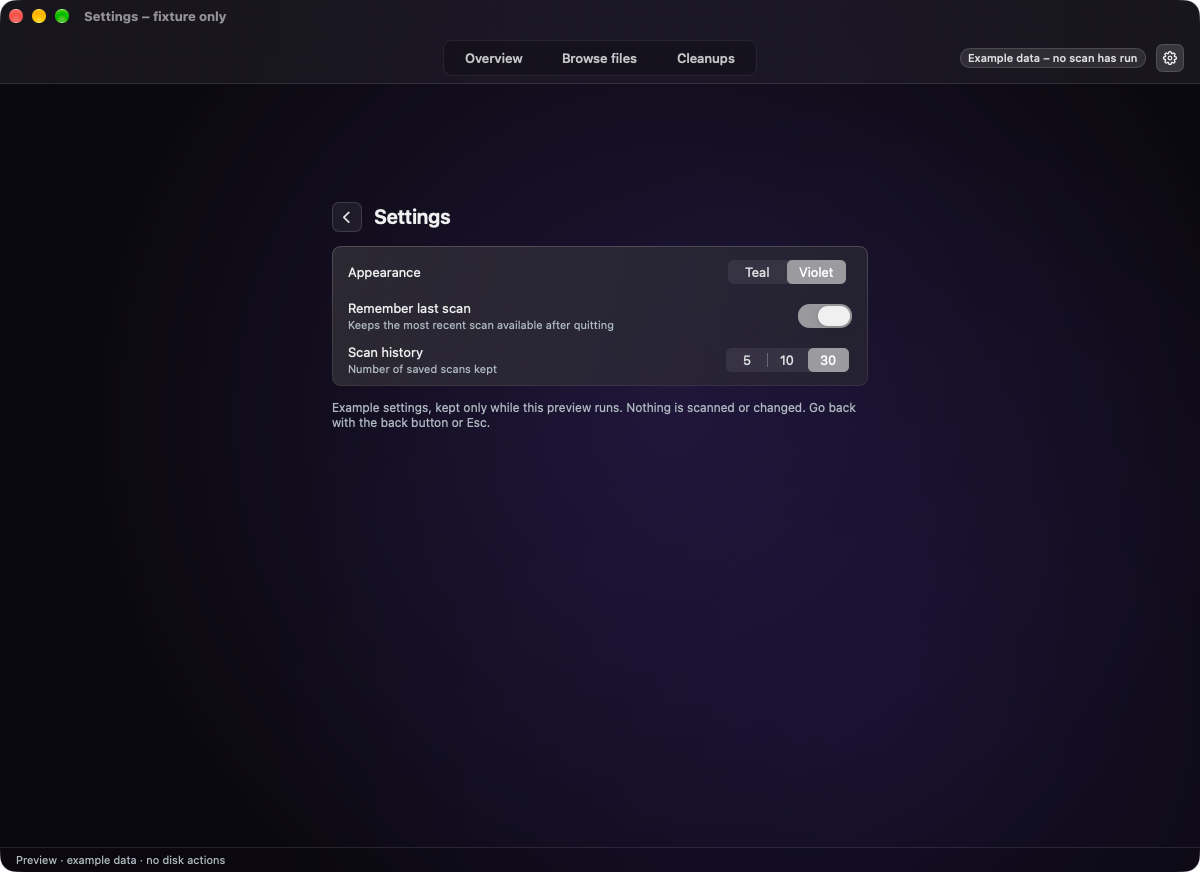
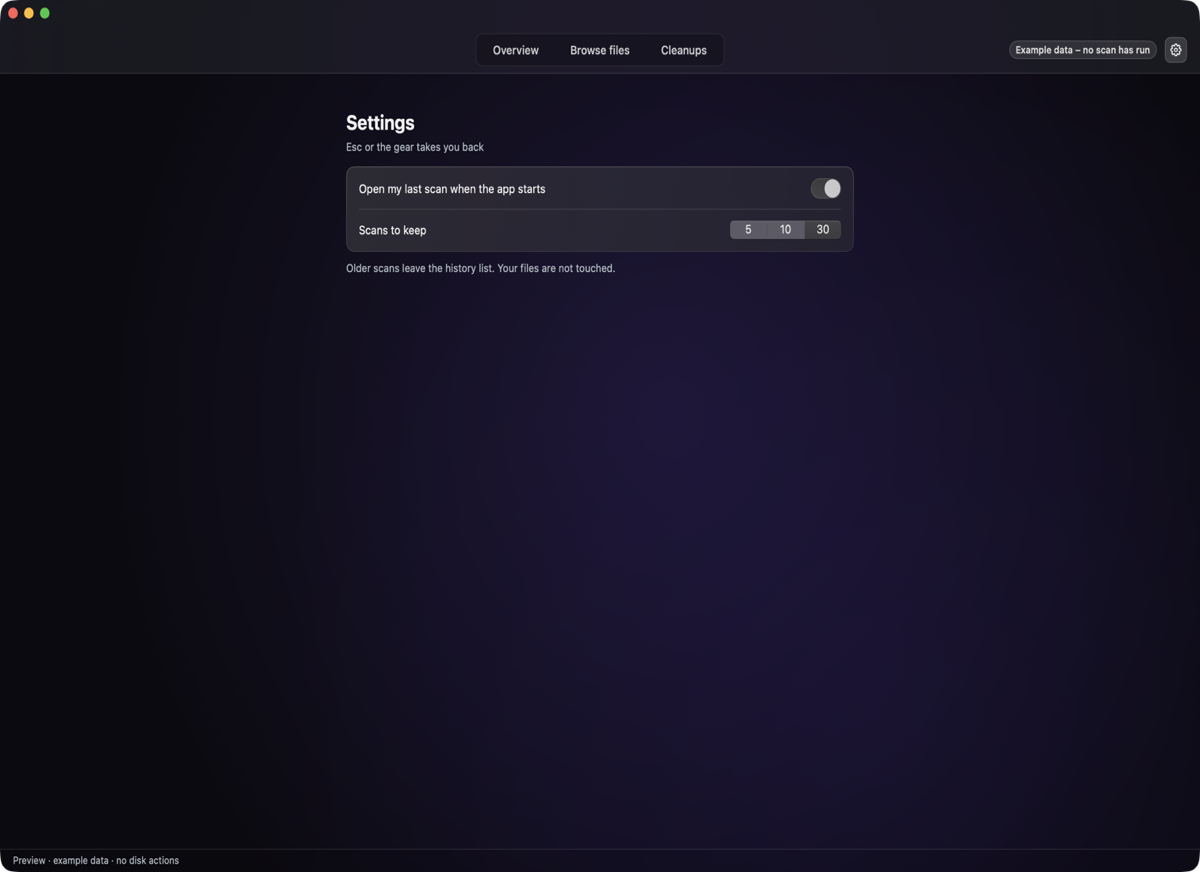
Polish the first-run pages and Settings

diff --git a/Sources/DiskCleanerApp/Views/Components.swift b/Sources/DiskCleanerApp/Views/Components.swift
@@ -191,10 +191,11 @@ struct PanelSurface: View {
 struct GhostStyle: ButtonStyle {
     @Environment(\.isEnabled) private var enabled
     var tint: Color = .white
+    var height: CGFloat = 36
     func makeBody(configuration: Configuration) -> some View {
         configuration.label.font(.system(size: 13, weight: .semibold))
             .foregroundStyle(tint.opacity(enabled ? 0.94 : 0.50))
-            .padding(.horizontal, 16).frame(height: 36)
+            .padding(.horizontal, 16).frame(height: height)
             .background(.white.opacity(configuration.isPressed && enabled ? 0.11 : 0), in: RoundedRectangle(cornerRadius: 7, style: .continuous))
             .animation(configuration.isPressed ? nil : CleanerMotion.release, value: configuration.isPressed)
             .overlay(RoundedRectangle(cornerRadius: 7, style: .continuous).strokeBorder(.white.opacity(enabled ? 0.30 : 0.18)))
@@ -371,3 +372,57 @@ enum FolderChooser {
         }
     }
 }
+
+/// The one layout of every no-scan page and Settings: a 640 pt column centred in the window,
+/// anchored to the top, a title, a one-line subtitle, then cards. Nothing is vertically centred.
+struct FirstRunPage<Content: View>: View {
+    let title: String
+    let subtitle: String
+    var subtitleSmall = false
+    @ViewBuilder var content: Content
+    var body: some View {
+        VStack(alignment: .leading, spacing: 0) {
+            Text(title).font(.system(size: 22, weight: .bold)).padding(.bottom, 6)
+            Text(subtitle).font(.system(size: subtitleSmall ? 12 : 14)).foregroundStyle(subtitleSmall ? Paint.secondary : Color(white: 0.78))
+                .fixedSize(horizontal: false, vertical: true).padding(.bottom, subtitleSmall ? 14 : 18)
+            VStack(alignment: .leading, spacing: 16) { content }
+        }
+        .frame(maxWidth: 640, alignment: .leading).frame(maxWidth: .infinity, alignment: .top)
+        // PersistentPage already adds 22 pt; this brings the title to 40 pt below the navigation.
+        .padding(.top, 18)
+    }
+}
+
+/// A plain card of the first-run pages.
+struct FirstRunCard<Content: View>: View {
+    @ViewBuilder var content: Content
+    var body: some View {
+        VStack(alignment: .leading, spacing: 0) { content }
+            .padding(.horizontal, 20).padding(.vertical, 18).frame(maxWidth: .infinity, alignment: .leading)
+            .background { PanelSurface(radius: 10) }
+    }
+}
+
+/// "Choose folder…" card shared by Overview and Browse files; both open the same chooser.
+struct ChooseFolderCard: View {
+    @ObservedObject var model: CleanerModel
+    let helper: String
+    var showsScanSettings = false
+    var body: some View {
+        FirstRunCard {
+            HStack(spacing: 10) {
+                Button("Choose folder…") { FolderChooser.choose { model.beginChosenScan($0) } }
+                    .buttonStyle(GhostStyle(height: 32)).disabled(model.scanControlsDisabledReason != nil)
+                Spacer(minLength: 8)
+                if showsScanSettings { Button("Scan settings") { model.openSettingsPage() }.buttonStyle(NeutralStyle(compact: true)) }
+            }
+            Text(helper).font(.system(size: 12.5)).foregroundStyle(Paint.secondary).fixedSize(horizontal: false, vertical: true).padding(.top, 10)
+            if let reason = model.scanControlsDisabledReason, !model.isFixture {
+                Text(reason).font(.system(size: 11)).foregroundStyle(Paint.secondary).padding(.top, 6)
+            }
+        }
+    }
+}
+
+/// Where the folder chooser starts, as shown in the helper lines.
+func chooserStartText(_ model: CleanerModel) -> String { model.isFixture ? "/Users/example" : NSHomeDirectory() }

diff --git a/Sources/DiskCleanerApp/Views/SettingsView.swift b/Sources/DiskCleanerApp/Views/SettingsView.swift
@@ -7,34 +7,27 @@ import DiskCleanerCore
 struct SettingsPage: View {
     @ObservedObject var model: CleanerModel
     var body: some View {
-        VStack(alignment: .leading, spacing: 14) {
-            HStack(spacing: 12) {
-                Button { model.closeSettingsPage() } label: { Image(systemName: "chevron.left") }
-                    .buttonStyle(IconStyle()).keyboardShortcut(.cancelAction)
-                    .help("Back (Esc)").accessibilityLabel("Back")
-                Text("Settings").font(.system(size: 20, weight: .semibold))
-            }
+        FirstRunPage(title: "Settings", subtitle: "Esc or the gear takes you back", subtitleSmall: true) {
             VStack(spacing: 0) {
-                SettingRow(title: "Remember last scan", caption: "Keeps the most recent scan available after quitting") {
-                    Toggle("Remember last scan", isOn: preference(\.rememberLastScan)).toggleStyle(.switch).labelsHidden().tint(.gray)
+                SettingRow(title: "Open my last scan when the app starts") {
+                    Toggle("Open my last scan when the app starts", isOn: preference(\.rememberLastScan)).toggleStyle(.switch).labelsHidden().tint(.gray)
                 }
-                SettingRow(title: "Scan history", caption: model.retentionLocked ? "Available when no scan or Trash review is running" : "Number of saved scans kept") {
-                    Picker("Scan history", selection: preference(\.retention)) {
+                Rule().padding(.horizontal, 16)
+                SettingRow(title: "Scans to keep") {
+                    Picker("Scans to keep", selection: preference(\.retention)) {
                         Text("5").tag(SnapshotRetention.five); Text("10").tag(SnapshotRetention.ten); Text("30").tag(SnapshotRetention.thirty)
-                    }.pickerStyle(.segmented).labelsHidden().frame(width: 130).disabled(model.retentionLocked)
+                    }.pickerStyle(.segmented).labelsHidden().frame(width: 140).disabled(model.retentionLocked)
+                        .help(model.retentionLocked ? "Available when no scan or Trash review is running" : "")
                 }
             }
-            .padding(.vertical, 4)
-            .background { PanelSurface(radius: 9) }
-            Text(model.isFixture
-                 ? "Example settings, kept only while this preview runs. Nothing is scanned or changed. Go back with the back button or Esc."
-                 : "Saved on this Mac for Disk Cleaner only. Fewer kept scans removes the oldest saved scans, never files. Go back with the back button or Esc.")
-                .font(.system(size: 12)).foregroundStyle(Paint.secondary).fixedSize(horizontal: false, vertical: true)
+            .padding(.vertical, 2)
+            .background { PanelSurface(radius: 10) }
+            Text("Older scans leave the history list. Your files are not touched.")
+                .font(.system(size: 12)).foregroundStyle(Paint.secondary).padding(.top, -6)
         }
-        .frame(width: 536, alignment: .leading)
+        // Esc goes back to the exact previous page; the gear in the navigation does the same.
+        .background { Button("") { model.closeSettingsPage() }.keyboardShortcut(.cancelAction).opacity(0).frame(width: 0, height: 0).accessibilityHidden(true) }
         .disabled(!model.settingsLoaded)
-        .frame(maxWidth: .infinity)
-        .padding(.top, 96)
     }
     private func preference<Value>(_ keyPath: WritableKeyPath<UserPreferences, Value>) -> Binding<Value> {
         Binding(get: { model.preferences[keyPath: keyPath] }, set: { model.setPreference(keyPath, to: $0) })

diff --git a/Sources/DiskCleanerApp/Views/CleanupViews.swift b/Sources/DiskCleanerApp/Views/CleanupViews.swift
@@ -1,4 +1,5 @@
 import SwiftUI
+import AppKit
 import DiskCleanerCore
 
 /// Cleanups. The request header, card outlines and row titles hold still; switching
@@ -17,10 +18,17 @@ struct JobsScreen: View {
             }
             .animation(CleanerMotion.layout(CleanerMotion.navigate, reduceMotion: reduceMotion), value: job.id)
         } else {
-            VStack(alignment: .leading, spacing: 12) {
-                Text("No cleanup requests yet").font(.system(size: 22, weight: .semibold))
-                Text("Requests and their outcomes will appear here. No cleanup rule is enabled.").foregroundStyle(Paint.secondary)
-            }.frame(maxWidth: .infinity, alignment: .leading).padding(.vertical, 60)
+            FirstRunPage(title: "Cleanups", subtitle: "When an AI agent asks for free space, its request and the answer show up here.") {
+                FirstRunCard {
+                    HStack(alignment: .firstTextBaseline, spacing: 9) {
+                        Circle().fill(Paint.warning).frame(width: 8, height: 8).alignmentGuide(.firstTextBaseline) { $0[.bottom] - 1 }
+                        Text("No cleanup types are switched on yet, so every request is answered \u{201C}Can\u{2019}t free enough\u{201D} and nothing is moved.")
+                            .fixedSize(horizontal: false, vertical: true)
+                    }
+                }
+                // Shown only when the bundle declares a Help Book, so a preview never has a dead link.
+                if Bundle.main.object(forInfoDictionaryKey: "CFBundleHelpBookName") is String { AgentAsksHelpLink() }
+            }
         }
     }
 }
@@ -224,5 +232,23 @@ struct CleanupMeasurementNote: View {
                     .font(.system(size: 12)).foregroundStyle(Color(white: 0.82)).padding(16).frame(maxWidth: .infinity, minHeight: 210, alignment: .topLeading)
             }
         }
+    }
+}
+
+/// "How an agent asks" opens the Help Book page; explanations live in Apple Help. A missing
+/// book does nothing but log.
+struct AgentAsksHelpLink: View {
+    var body: some View {
+        Button {
+            guard let book = Bundle.main.object(forInfoDictionaryKey: "CFBundleHelpBookName") as? String else {
+                NSLog("Disk Cleaner: no Help Book is installed; \"agents\" anchor not opened")
+                return
+            }
+            NSHelpManager.shared.openHelpAnchor("agents", inBook: book)
+        } label: {
+            Text("How an agent asks").font(.system(size: 13, weight: .medium)).underline()
+                .foregroundStyle(Color(white: 0.86))
+                .frame(minHeight: 28).contentShape(Rectangle())
+        }.buttonStyle(WholeRowStyle()).padding(.leading, 2)
     }
 }

diff --git a/Sources/DiskCleanerApp/Views/OverviewViews.swift b/Sources/DiskCleanerApp/Views/OverviewViews.swift
@@ -62,20 +62,27 @@ struct OverviewScreen: View {
 
 struct EmptyInventory: View {
     @ObservedObject var model: CleanerModel
+    @State private var volume: BootVolumeFigure?
+    init(model: CleanerModel) {
+        self.model = model
+        _volume = State(initialValue: model.isFixture ? .example : BootVolumeFigure.measure())
+    }
     var body: some View {
-        VStack(spacing: 14) {
-            Text("No scan yet").font(.system(size: 22, weight: .semibold))
-            Text("Choose a folder to read its sizes. Choosing a folder only reads it; nothing is changed or removed.")
-                .foregroundStyle(Paint.secondary).multilineTextAlignment(.center).frame(maxWidth: 380)
-            Button("Choose Folder…") { FolderChooser.choose { model.beginChosenScan($0) } }
-                .buttonStyle(GhostStyle()).disabled(model.scanControlsDisabledReason != nil)
-            if let reason = model.scanControlsDisabledReason { Text(reason).font(.system(size: 11)).foregroundStyle(Paint.secondary) }
-            HStack(spacing: 8) {
-                Text("Capacity and size figures appear after a scan finishes.").font(.system(size: 12)).foregroundStyle(Paint.secondary)
-                Button("Scan settings") { model.openSettingsPage() }.buttonStyle(NeutralStyle(compact: true))
+        FirstRunPage(title: "Overview", subtitle: "Choose a folder to see what takes up space.") {
+            if let volume {
+                FirstRunCard {
+                    HStack(alignment: .firstTextBaseline, spacing: 8) {
+                        Text(volume.availableText).font(.system(size: 44, weight: .bold)).monospacedDigit()
+                        Text("free on \(volume.name)").font(.system(size: 16, weight: .medium)).foregroundStyle(Paint.secondary)
+                    }
+                    Text("Measured now").font(.system(size: 12)).foregroundStyle(Paint.secondary).padding(.top, 6)
+                }
             }
+            ChooseFolderCard(model: model, helper: "Starts in \(chooserStartText(model)). Disk Cleaner only reads sizes. Nothing moves until you tick items and confirm.", showsScanSettings: true)
         }
-        .frame(maxWidth: .infinity).padding(.top, 170)
+        .onChange(of: model.screen) { _, screen in
+            if screen == .overview, !model.isFixture { volume = BootVolumeFigure.measure() }
+        }
     }
 }
 

diff --git a/Tests/DiskCleanerCoreTests/AppModelFixtureTests.swift b/Tests/DiskCleanerCoreTests/AppModelFixtureTests.swift
@@ -30,7 +30,7 @@ private func waitFor(_ condition: @MainActor () -> Bool) async {
     #expect(LaunchOptions.isFixture(arguments: ["app"], environment: ["DISK_CLEANER_DEMO": "1"], bundleDemoMode: false))
     #expect(LaunchOptions.isFixture(arguments: ["app"], environment: [:], bundleDemoMode: true))
     #expect(!LaunchOptions.isFixture(arguments: ["app"], environment: [:], bundleDemoMode: false))
-    #expect(Set(FixtureScene.allCases.map(\.rawValue)) == ["overview", "browse", "browse-tree", "empty", "scanning", "settings", "trash-review", "trash-outcome", "cleanup-result"])
+    #expect(Set(FixtureScene.allCases.map(\.rawValue)) == ["overview", "browse", "browse-tree", "empty", "browse-empty", "cleanups-empty", "scanning", "settings", "trash-review", "trash-outcome", "cleanup-result"])
 }
 
 @MainActor @Test func selectionStaysSeparateFromNavigation() throws {
@@ -239,6 +239,10 @@ private struct RefusingRecordingBackend: TrashBackend {
             #expect(model.selected?.path == FixtureData.installers)
         case .empty:
             #expect(!model.hasSnapshot); #expect(model.scanDate == nil)
+        case .browseEmpty:
+            #expect(!model.hasSnapshot); #expect(model.screen == .browse)
+        case .cleanupsEmpty:
+            #expect(!model.hasSnapshot); #expect(model.screen == .cleanups); #expect(model.job == nil)
         case .scanning:
             #expect(model.scanning); #expect(model.previousSnapshotAvailable)
             model.cancelScan(); #expect(!model.scanning)

diff --git a/Sources/DiskCleanerApp/Model/LaunchAndFormatting.swift b/Sources/DiskCleanerApp/Model/LaunchAndFormatting.swift
@@ -15,6 +15,8 @@ enum FixtureScene: String, CaseIterable, Sendable {
     case overview, browse
     case browseTree = "browse-tree"
     case empty, scanning, settings
+    case browseEmpty = "browse-empty"
+    case cleanupsEmpty = "cleanups-empty"
     case trashReview = "trash-review"
     case trashOutcome = "trash-outcome"
     case cleanupResult = "cleanup-result"
@@ -46,4 +48,19 @@ func dateText(_ date: Date?, time: Bool = false) -> String {
     formatter.locale = Locale(identifier: "en_GB")
     formatter.dateFormat = time ? "d MMM, HH:mm" : "d MMM yyyy"
     return formatter.string(from: date)
+}
+
+/// Free space on the boot volume for the no-scan Overview. The preview shows an example figure.
+struct BootVolumeFigure: Equatable, Sendable {
+    let name: String
+    let availableBytes: Int64
+    static let example = BootVolumeFigure(name: "Macintosh HD", availableBytes: 312_000_000_000)
+    var availableText: String { "\(Int((Double(availableBytes) / 1_000_000_000).rounded())) GB" }
+    static func measure() -> BootVolumeFigure? {
+        let url = URL(fileURLWithPath: "/")
+        guard let attributes = try? FileManager.default.attributesOfFileSystem(forPath: url.path),
+              let free = attributes[.systemFreeSize] as? NSNumber else { return nil }
+        let name = (try? url.resourceValues(forKeys: [.volumeNameKey]))?.volumeName ?? "this Mac"
+        return BootVolumeFigure(name: name, availableBytes: free.int64Value)
+    }
 }

diff --git a/Sources/DiskCleanerApp/Views/BrowseViews.swift b/Sources/DiskCleanerApp/Views/BrowseViews.swift
@@ -10,10 +10,12 @@ struct BrowseScreen: View {
             if ready {
                 BrowseList(model: model).transition(.fadeThrough)
             } else {
-                VStack(alignment: .leading, spacing: 10) {
-                    Text(model.scanning ? "Scan in progress" : "No scan yet").font(.system(size: 22, weight: .semibold))
-                    Text(model.scanning ? "Files appear here when the scan finishes." : "Choose a folder on Overview to read its sizes.").foregroundStyle(Paint.secondary)
-                }.padding(.vertical, 60).transition(.fadeThrough)
+                FirstRunPage(title: model.scanning ? "Scan in progress" : "Browse files",
+                             subtitle: model.scanning ? "Files appear here when the scan finishes." : "No scan yet. Choose a folder to browse it by size.") {
+                    if !model.scanning {
+                        ChooseFolderCard(model: model, helper: "Starts in \(chooserStartText(model)). Same folder chooser as Overview.")
+                    }
+                }.transition(.fadeThrough)
             }
         }
         .animation(CleanerMotion.fadeIn, value: ready)

diff --git a/Sources/DiskCleanerApp/Model/CleanerModel.swift b/Sources/DiskCleanerApp/Model/CleanerModel.swift
@@ -530,6 +530,10 @@ final class CleanerModel: ObservableObject {
             screen = .overview
             browser = nil; currentPath = nil; root = nil; scanDate = nil; comparisonDate = nil
             total = nil; available = nil; items = []; oldItems = []; coverageErrors = []; selectedItem = nil
+        case .browseEmpty, .cleanupsEmpty:
+            apply(.empty)
+            screen = scene == .browseEmpty ? .browse : .cleanups
+            jobs = []; selectedJob = nil
         case .scanning:
             screen = .overview
             scanning = true; scanRoot = URL(fileURLWithPath: FixtureData.root)

diff --git a/docs/tutorials/first-scan.md b/docs/tutorials/first-scan.md
@@ -16,11 +16,11 @@ Use this page to open the app, see what fills a folder, and, if you choose, move
 
 1. Open `Disk Cleaner Preview.app`. Its footer says it shows example data with no disk actions. Figures such as "126 GB Documents" are examples.
 2. To open one screen directly, quit it and start it with a scene: `open -n "Disk Cleaner Preview.app" --args --scene trash-review`. Setting `DISK_CLEANER_SCENE` does the same from a shell.
-3. Scenes: `overview`, `browse`, `browse-tree`, `empty`, `scanning`, `settings`, `trash-review`, `trash-outcome`, `cleanup-result`.
+3. Scenes: `overview`, `browse`, `browse-tree`, `empty`, `browse-empty`, `cleanups-empty`, `scanning`, `settings`, `trash-review`, `trash-outcome`, `cleanup-result`.
 
 ## Scan and browse
 
-1. Open `Disk Cleaner.app` and choose Choose Folder on the empty screen. The app scans only that folder. It does not follow symbolic links and stops after 100,000 entries, and it tells you the scope and how fresh the scan is.
+1. Open `Disk Cleaner.app` and choose **Choose folder…** on Overview, which also shows the free space on your startup disk, or on the empty Browse files page. The app scans only that folder. It does not follow symbolic links and stops after 100,000 entries, and it tells you the scope and how fresh the scan is.
 2. Cancel stops a running scan and keeps your previous saved result. Scan again repeats the current folder.
 3. Read **Overview**: whole-disk capacity beside the recorded sizes of the scanned folder. Scan totals are estimates, not space you could free.
 4. Open **Browse files**. Click a folder row to go inside. Use the back chevron or a breadcrumb to return; the row you came from stays in view. Browsing uses the saved scan and does not rescan.
@@ -38,7 +38,7 @@ Moving to the Trash does not free space until you empty it. Finder's Put Back is
 
 ## Settings
 
-Open Settings with the gear or Command-comma; it is a page in the same window, and Back or Esc returns. Choose whether to remember the last scan, and how many scans to keep: 5, 10 or 30.
+Open Settings with the gear or Command-comma; it is a page in the same window, and Esc or the gear returns you to the page you came from. Choose whether to open your last scan when the app starts, and how many scans to keep: 5, 10 or 30. Older scans leave the history list; your files are not touched.
 
 ## Cleanups
 

diff --git a/docs/explanation/appearance.md b/docs/explanation/appearance.md
@@ -11,3 +11,7 @@ The app has one violet atmosphere and no appearance setting. It uses neutral con
 [`DiskCleanerAppearance.swift`](../../Sources/DiskCleanerApp/DiskCleanerAppearance.swift) names the violet atmosphere colours and the shared `Paint` colours. The violet ground and glow colours were adapted from the atmosphere of another Aikongen product's prototype, without adopting its controls or layout. A settings file saved by an earlier build may still contain an `appearance` value; it is ignored and the violet atmosphere is used.
 
 Figures such as 126 GB Documents are example data. The previews are fixture screens, not evidence of a full file browser or cleanup capability.
+
+## First-run pages and Settings
+
+Overview, Browse files and Cleanups before a scan, and Settings, share one layout: a 640 pt column centred in the window and anchored to the top, a title 40 pt below the navigation, a one-line subtitle, then cards. Nothing is vertically centred. While Settings is open the navigation stays visible with no tab selected, and the gear shows as selected; Esc or the gear returns to the previous page. Cleanups links to the Help page "How an agent asks" instead of explaining in the window.

diff --git a/CHANGELOG.md b/CHANGELOG.md
@@ -6,6 +6,7 @@ This file records user-visible changes. The format follows [Keep a Changelog](ht
 
 - Releases include a drag-to-install `.dmg` beside the zip.
 - README rewritten for people who download the app; build instructions moved to the maintainer guide.
+- Polished the first-run pages and Settings: one top-anchored 640 pt layout, free space shown on Overview, a "How an agent asks" Help link on Cleanups, and Settings without a back chevron.
 - Removed the Teal appearance option; the app has one violet atmosphere.
 
 ## 0.1.0 - 2026-11-04
